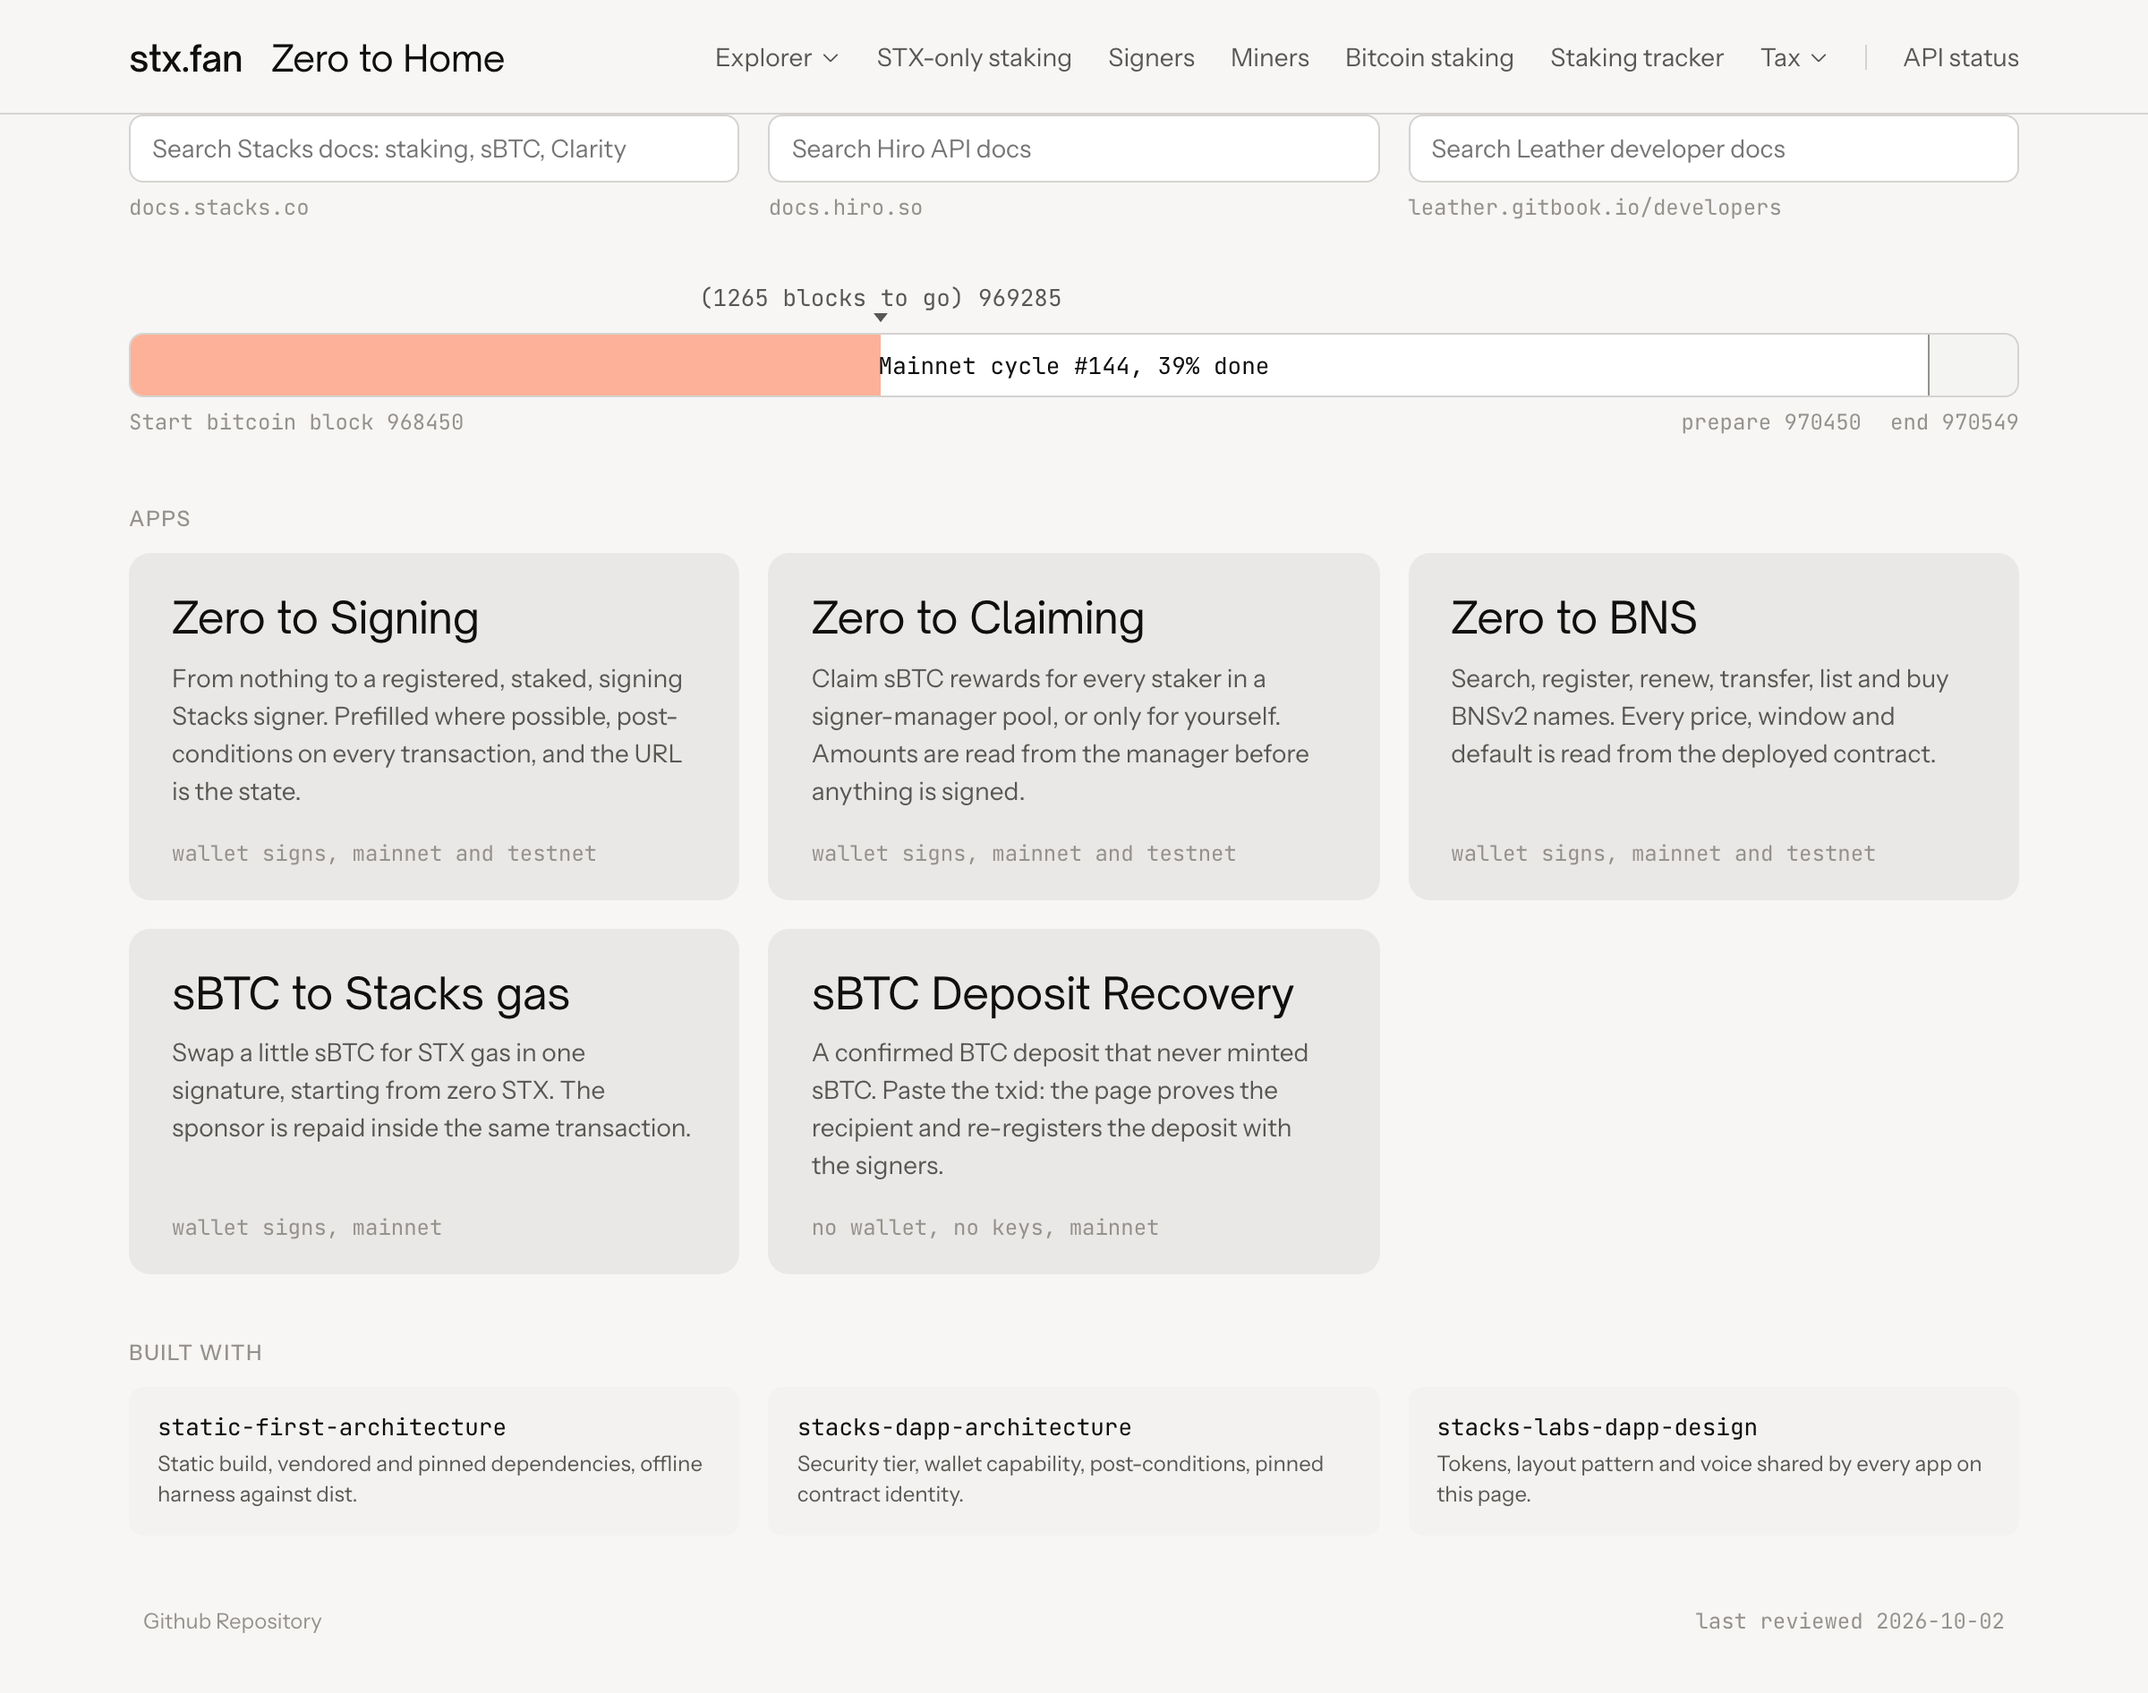
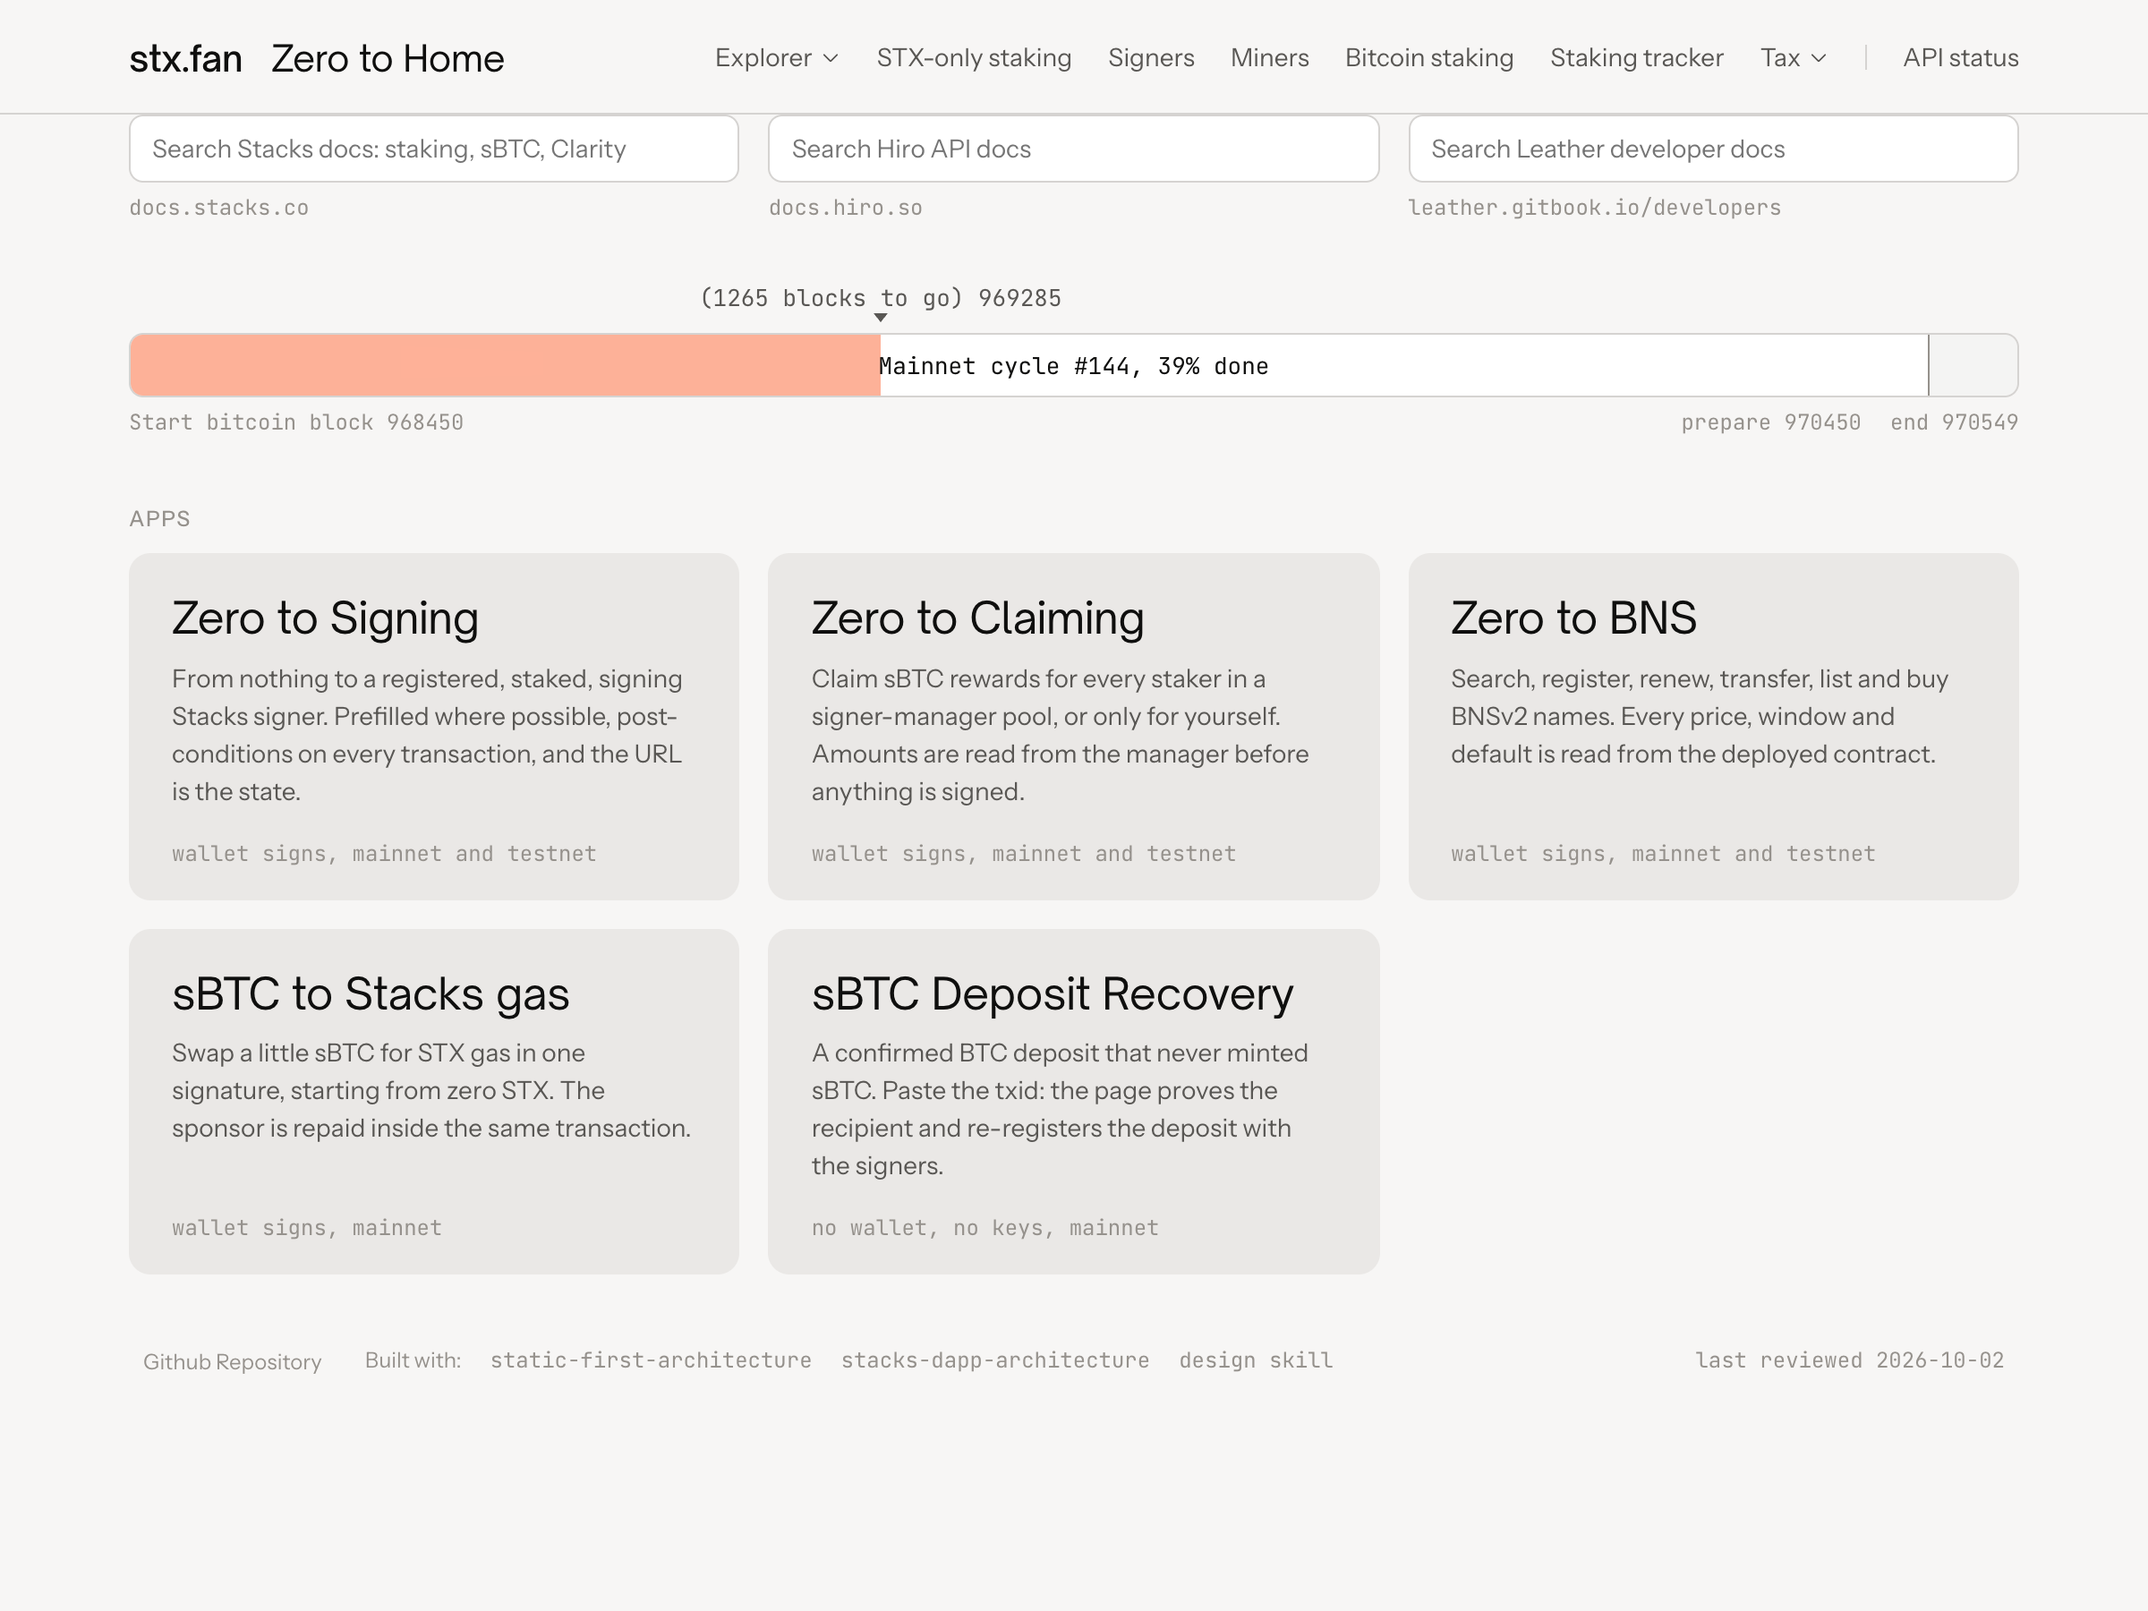
Zero to Home: nojekyll, skill links in footer

diff --git a/zero_to/zt_home.css b/zero_to/zt_home.css
@@ -46,13 +46,10 @@ main{padding-top:28px}
 .tile p{margin-top:10px;font-size:var(--fs-sm);line-height:1.5;color:var(--text-secondary);text-wrap:pretty;flex:1}
 .tile .meta{margin-top:16px;font:400 12px var(--font-mono);color:var(--text-tertiary)}
 
-/* built with: nested cells linking to skills.html */
-.built{margin-top:12px;display:grid;grid-template-columns:repeat(3,minmax(0,1fr));gap:16px}
-.built .skill{background:var(--surface-secondary);border-radius:var(--radius-md);padding:14px 16px;display:flex;flex-direction:column;gap:4px;color:var(--text-primary)}
-.built .skill:hover{text-decoration:none;background:var(--surface-fifth)}
-.built .skill .n{font:400 13px var(--font-mono)}
-.built .skill .d{font-size:var(--fs-xs);color:var(--text-secondary);line-height:1.4}
-
+/* footer: "Built with" and one quiet link per skill, same tone as the other footer links */
+.site-foot .built{display:inline-flex;gap:16px;margin-left:8px}
+.site-foot .built .lbl{color:var(--text-tertiary)}
+.site-foot .built a{font-family:var(--font-mono)}
 .site-foot .rev{font-family:var(--font-mono)}
 
 /* skills page: intro prose, one card per skill with version tabs and the text verbatim */

diff --git a/zero_to/zt_home.js b/zero_to/zt_home.js
@@ -14,13 +14,10 @@ function renderTiles(root, apps) {
   }
 }
 
+// Footer line: "Built with" followed by one quiet link per skill into skills.html.
 function renderBuilt(root, skills) {
-  for (const s of skills) {
-    const a = link("skills.html#" + s.id, undefined, "skill");
-    a.appendChild(el("span", "n", s.id));
-    a.appendChild(el("span", "d", s.description));
-    root.appendChild(a);
-  }
+  root.appendChild(el("span", "lbl", "Built with:"));
+  for (const s of skills) root.appendChild(link("skills.html#" + s.id, s.label, "skill"));
 }
 
 // CycleBar from Zero to Signing, in DOM calls. The caret sits at the true position; within

diff --git a/zero_to/index.html b/zero_to/index.html
@@ -32,11 +32,9 @@
   <div class="section-head"><h4>Apps</h4></div>
   <section class="tiles" id="tiles" aria-label="zero_to apps"></section>
 
-  <div class="section-head"><h4>Built with</h4></div>
-  <section class="built" id="built" aria-label="Skills used"></section>
-
   <footer class="site-foot">
     <a href="https://github.com/no314/stx-fan/tree/main/zero_to" target="_blank" rel="noopener">Github Repository</a>
+    <span class="built" id="built"></span>
     <span class="spacer"></span>
     <span class="rev" id="reviewed"></span>
   </footer>

diff --git a/zero_to/zt_skills.js b/zero_to/zt_skills.js
@@ -24,7 +24,8 @@ function renderSkill(root, s) {
     for (const b of tabs.children) b.classList.toggle("active", b === btn);
     note.textContent = v.note;
     block.textContent = "";
-    block.textContent = await loadText(v.file);
+    try { block.textContent = await loadText(v.file); }
+    catch (e) { block.textContent = "Could not load " + v.file + " (" + e.message + ")."; }
   };
   let first;
   s.versions.forEach((v, i) => {

diff --git a/zero_to/README.md b/zero_to/README.md
@@ -1,12 +1,12 @@
 # Zero to Home
 
-The homepage for the zero_to apps at `https://stx.fan/zero_to/`: ecosystem quick links with split caret menus, three docs searches, the mainnet reward cycle bar, one tile per app, and the skills the apps are built with. A second page, `skills.html`, shows every version of each skill verbatim.
+The homepage for the zero_to apps at `https://stx.fan/zero_to/`: ecosystem quick links with split caret menus, three docs searches, the mainnet reward cycle bar, one tile per app, and footer links to the skills the apps are built with. A second page, `skills.html`, shows every version of each skill verbatim.
 
 **How it was built.** Claude plus two skills (static-first-architecture and stacks-labs-dapp-design; the dApp architecture skill was not needed, the page signs nothing) and a one page PRD (`PRD.md`). No build step and no framework: this folder is the deployment. The only runtime dependency is the Hiro pox endpoint, read every minute while the tab is visible.
 
 **Layout.** Only apps are subfolders of zero_to. Every file of the homepage itself sits in the root with a `zt_` prefix (page code, the design tokens and fonts, scripts, screenshots, the skill texts), so an app folder is never mistaken for part of the page.
 
-**Editing.** Everything hand-maintained is in `zt_site.json`: quick links (an entry with `more` gets a caret and a menu), the search targets, the app tiles in display order, the skills footer, and the review date. Add an app by adding one object to `apps`; the harness fails if the folder it points at does not exist. Skill versions are the `zt_skill-*.md` files, catalogued in `zt_skills-data.js`.
+**Editing.** Everything hand-maintained is in `zt_site.json`: quick links (an entry with `more` gets a caret and a menu), the search targets, the app tiles in display order, the footer skill links (the design skill is labelled "design skill"), and the review date. Add an app by adding one object to `apps`; the harness fails if the folder it points at does not exist. Skill versions are the `zt_skill-*.md` files, catalogued in `zt_skills-data.js`.
 
 **Files.**
 

diff --git a/zero_to/PRD.md b/zero_to/PRD.md
@@ -25,8 +25,7 @@ app: one deployed zero_to subfolder with an `index.html`. quick link: an externa
 2. Docs search row: three `.field` inputs in a 3-column grid. Enter opens the target in a new tab. No label above the input: the label is the placeholder ("Search Stacks docs: staking, sBTC, Clarity"). Mono hint under each with the destination host.
 3. Cycle bar: the CycleBar alone, no kicker. The track label names the network: "Mainnet cycle #144, 39% done". No read stamp and no Refresh control; the page re-reads /v2/pox every 60 seconds (setInterval, cleared on page hide) and a reload is the manual refresh (decided 2026-09-30).
 4. App tiles: 3-column grid of standout cards (`--surface-primary`, radius 12, no border). Name in display face 24px, description 14px secondary (max 2 sentences), one mono meta line ("wallet signs, mainnet and testnet" or "no wallet, no keys, mainnet").
-5. Built with: kicker "Built with", three `--surface-secondary` cells naming the skills, no kicker-line caption, each linking to `skills.html#<skill-name>` (decided 2026-10-02).
-6. `.site-foot`: Github Repository left, spacer, "last reviewed YYYY-MM-DD" in mono right. Nothing else.
+5. `.site-foot`: Github Repository, then "Built with" and one quiet link per skill into `skills.html#<id>` (the two architecture skills by name, the design skill as "design skill"; decided 2026-10-03, replacing the earlier "Built with" cells), spacer, "last reviewed YYYY-MM-DD" in mono right.
 
 ## Quick links (verified 2026-09-30, all answer 200)
 

diff --git a/zero_to/20261002_skill-update-handoff-zero-to-home.md b/zero_to/20261002_skill-update-handoff-zero-to-home.md
@@ -68,6 +68,9 @@ Read for inspiration, do not generalize: the skills page's version catalogue (`z
 
 ## Mistakes and dead ends
 
+- [static-first] [rule] [generalizes: any GitHub Pages site serving text files verbatim] [source: both]
+  GitHub Pages runs Jekyll unless a `.nojekyll` file exists at the repo root. Jekyll treats every markdown file with YAML front matter as a page: it converts it to `.html` and the `.md` URL answers 404. The skill texts all start with front matter, so the live skills page showed empty boxes while the two files without front matter loaded. The offline harness could not see it because the local server serves files verbatim; it now asserts `.nojekyll` exists. Add `.nojekyll` to any Pages repo that serves `.md`, `.yml`, or underscore-prefixed paths as data.
+
 - The first commit put the skill texts in `zero_to/skills/` and support files in `assets/`, `scripts/` and `screenshots/`. The owner wants only apps as subfolders of zero_to, so an app folder is never confused with page machinery. Everything moved flat into the root with a `zt_` prefix before the push. Ask about folder conventions before the first commit of a page that lives inside a directory of apps.
 
 - A first mock put a folder path in each tile's meta line. It wrapped at three different widths across five tiles and was dropped; the URL bar shows the folder anyway.
